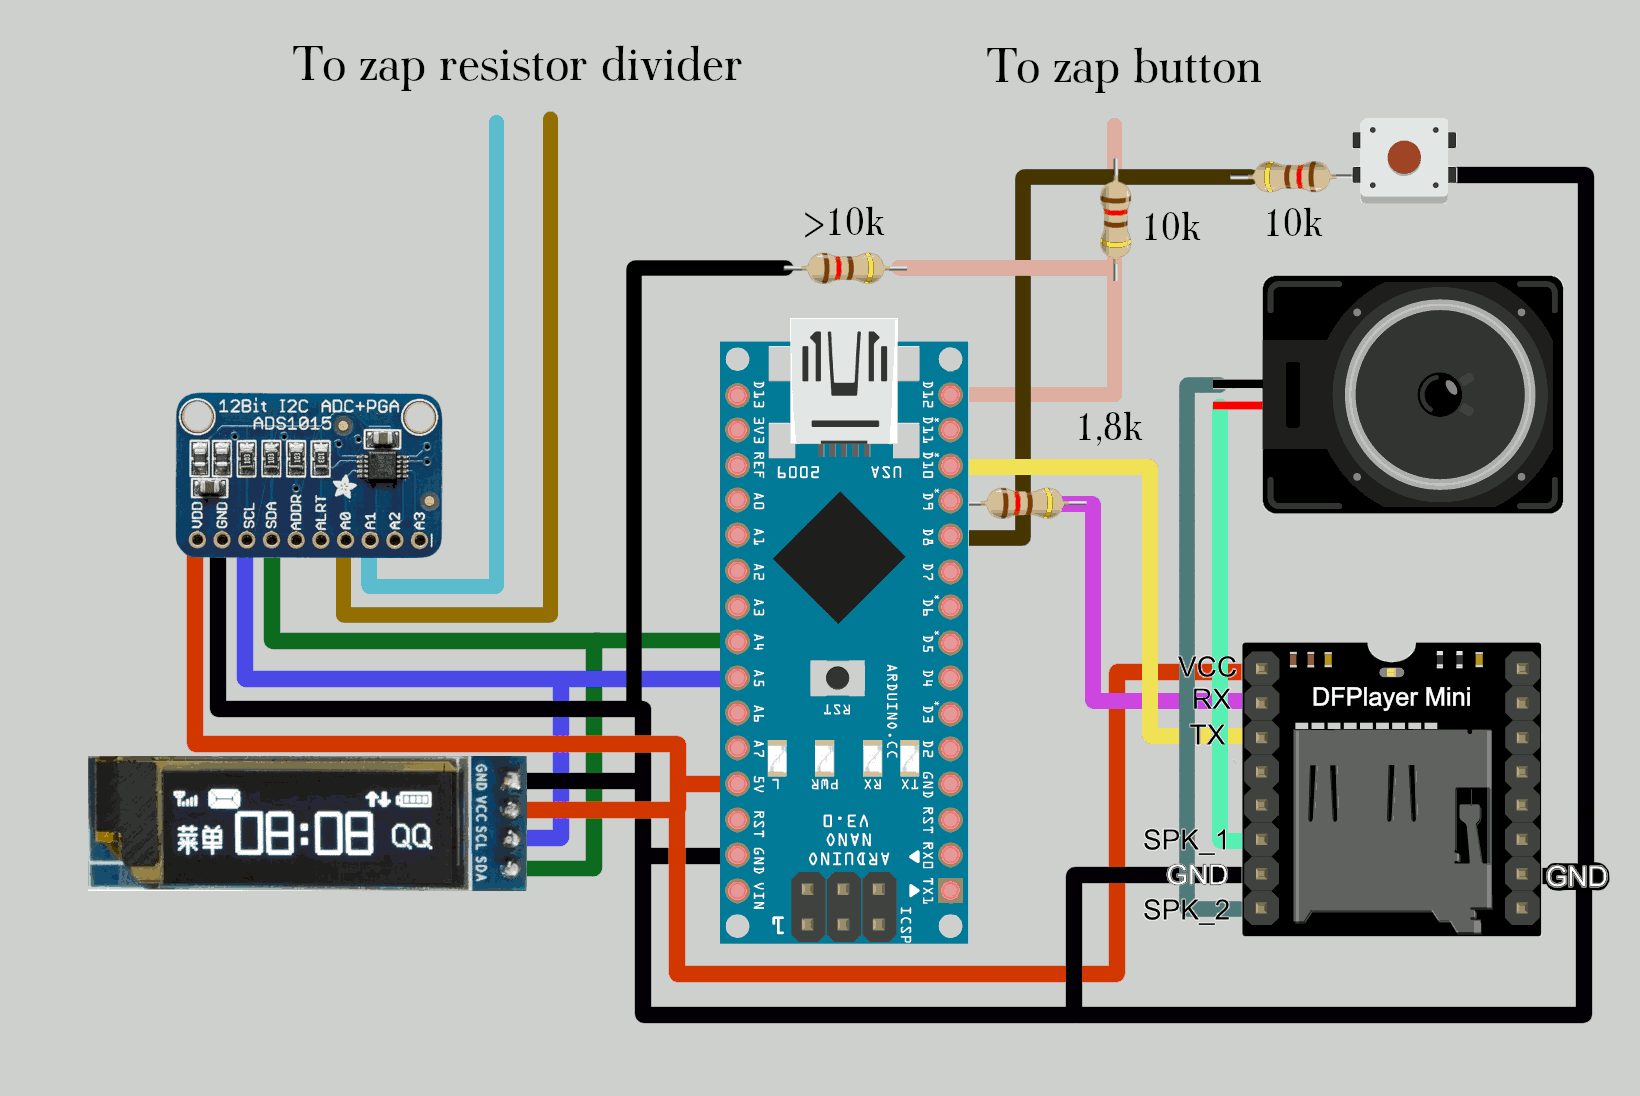
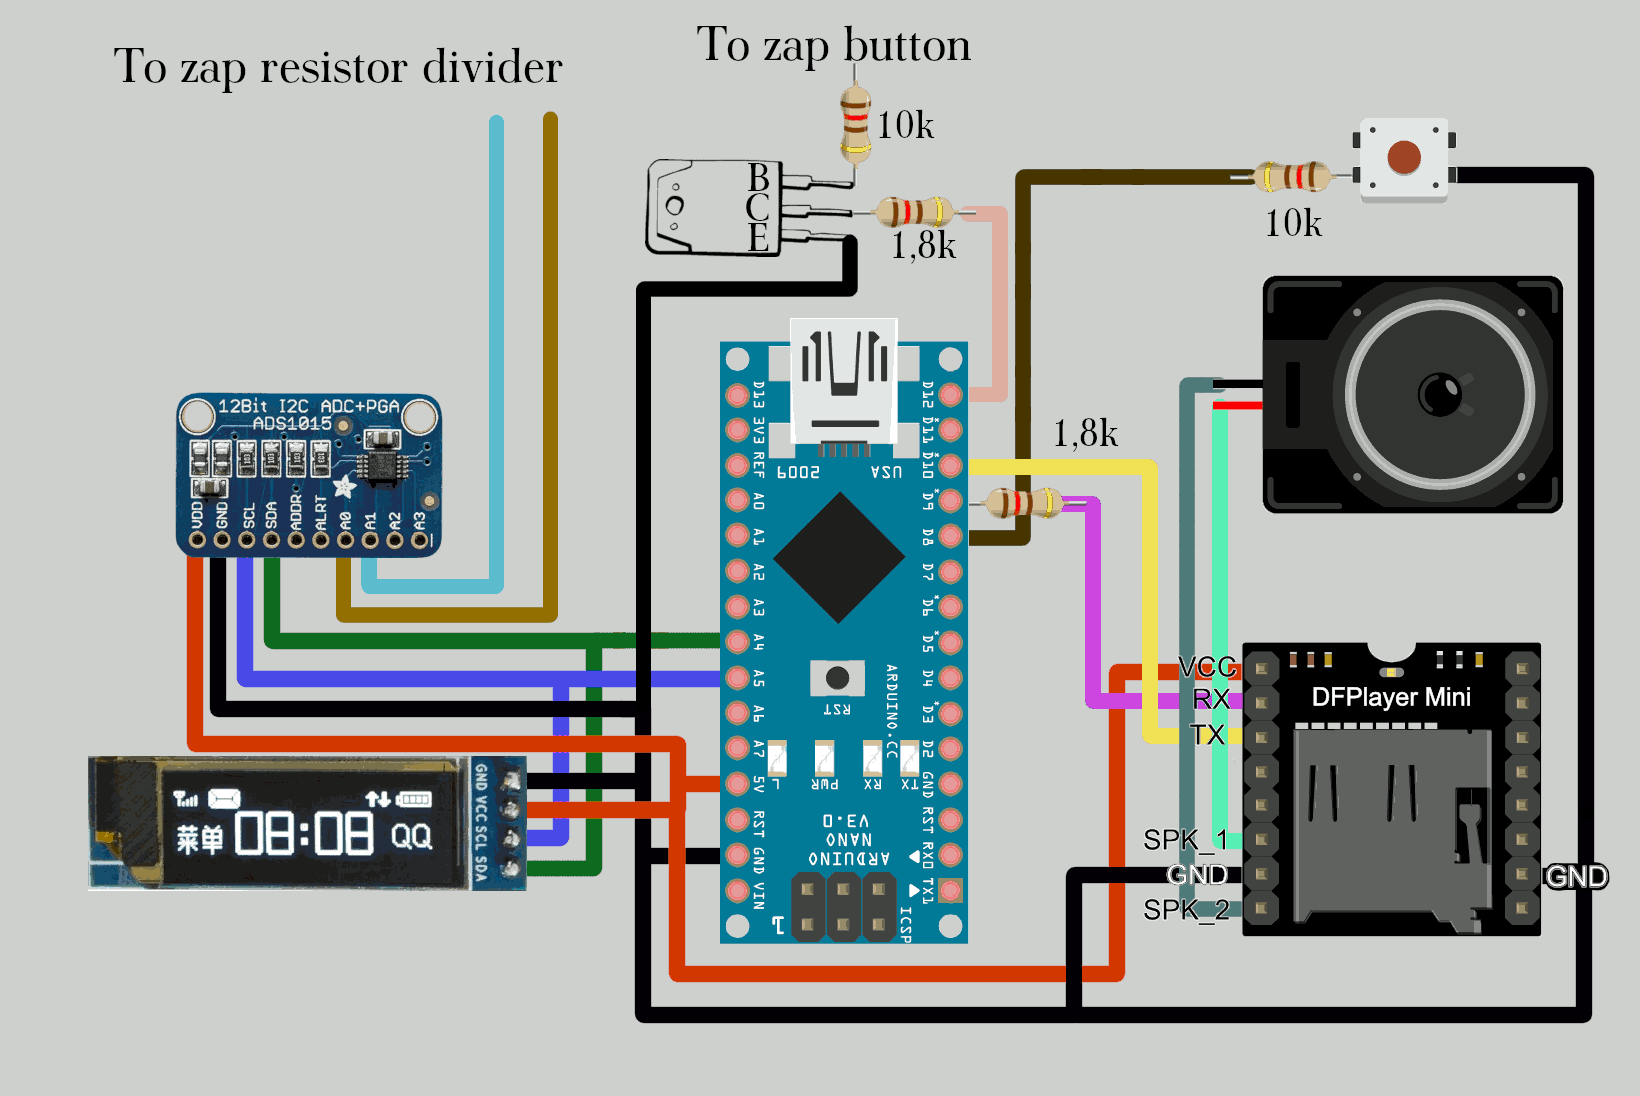
A lot of code changes and some schematic (new transistor for button), updated manual

Changed region(s): [[0.0933, 0.031, 0.7774, 0.6515], [0.1555, 0.7135, 0.2177, 0.7445], [0.0622, 0.031, 0.0933, 0.062]]

diff --git a/README.md b/README.md
@@ -10,6 +10,7 @@ It ads kill counter, high score and sound effects.
 * OLED display 128x32 (called OLED-091)
 * ADS1015 board
 * DFPlayer Mini with SD card and speaker (I've used old laptop speakers)
+* NPN transistor (I've used 2SC828A - but only because I've pick this one from the box)
 * some 10k resistors, one ~32k resistor, switch and wires
 
 ## Assembly
